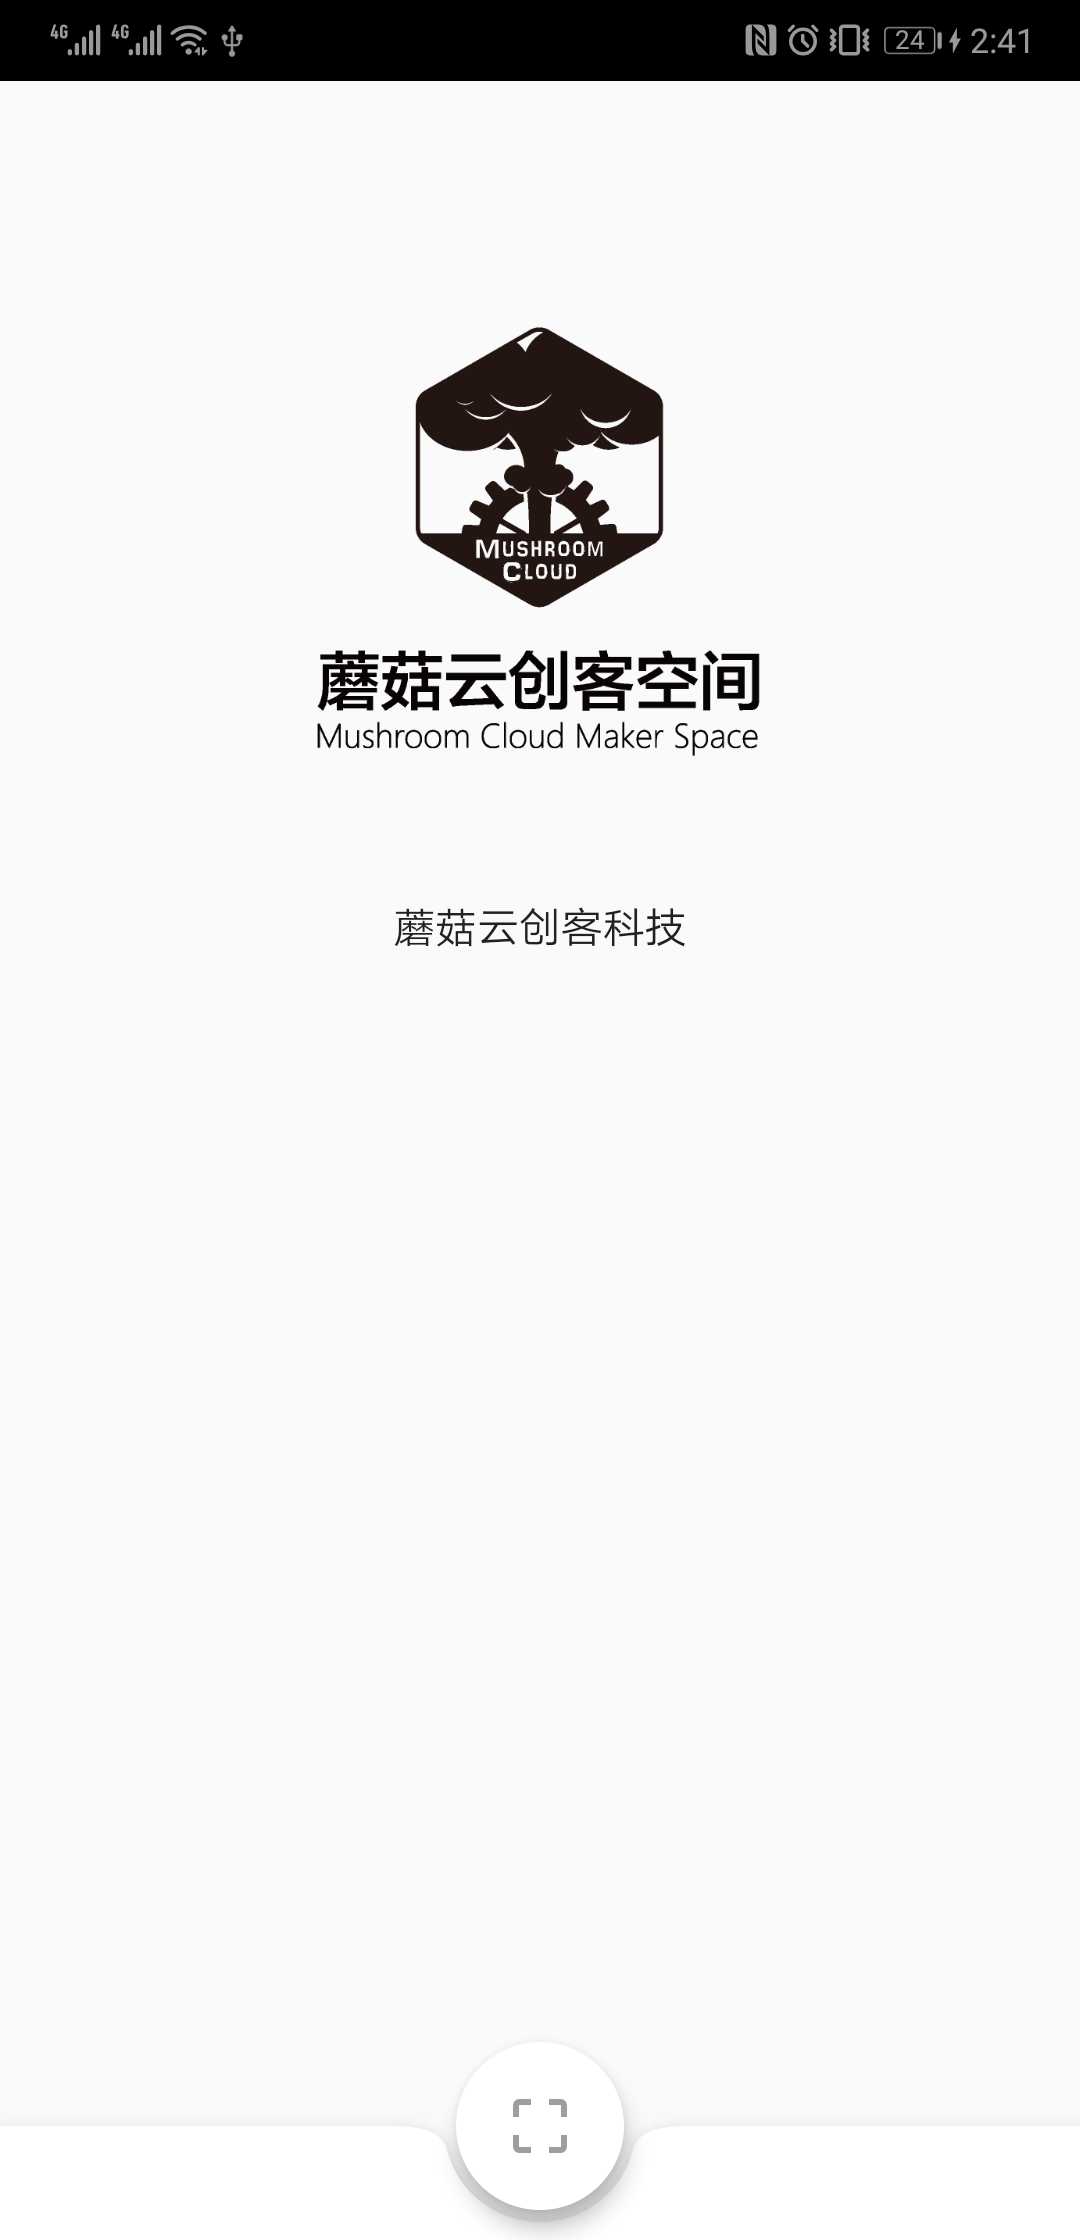
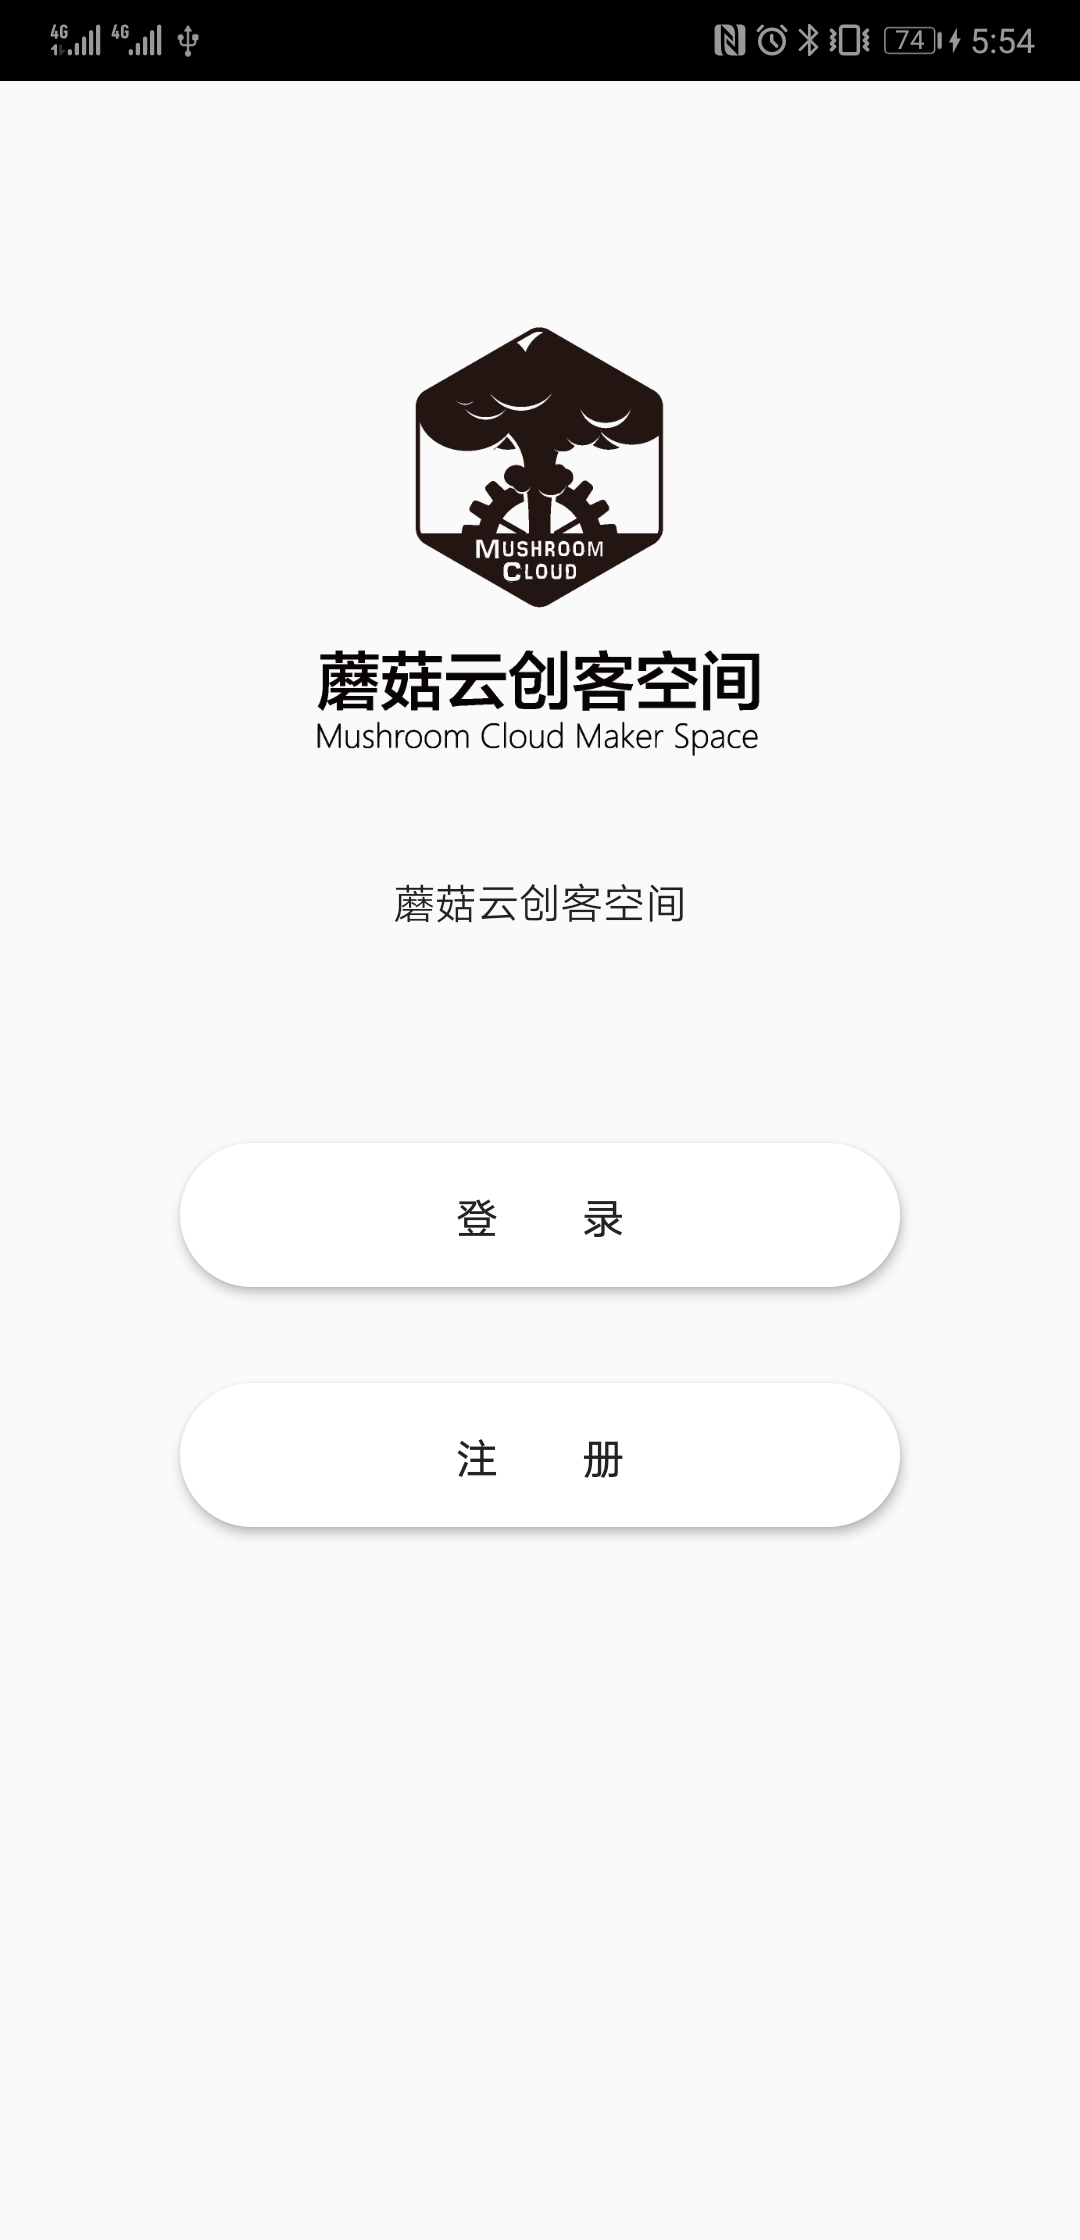
update screenshots

diff --git a/README.md b/README.md
@@ -45,8 +45,15 @@
 ## Screenshots
 
 - HomePage
-- <img src="screenshots/home_page.png" width="200">
+  
+  <img src="screenshots/home_page.png" width="200">
+- LoginPage
+  
+  <img src="screenshots/login_page.png" width="200">
 
+- WorkshopPage
+  
+  <img src="screenshots/workshop_page.png" width="200">
 ## 协作开发
 
 - fork https://github.com/mushroomcloud-cc/member-app.git
